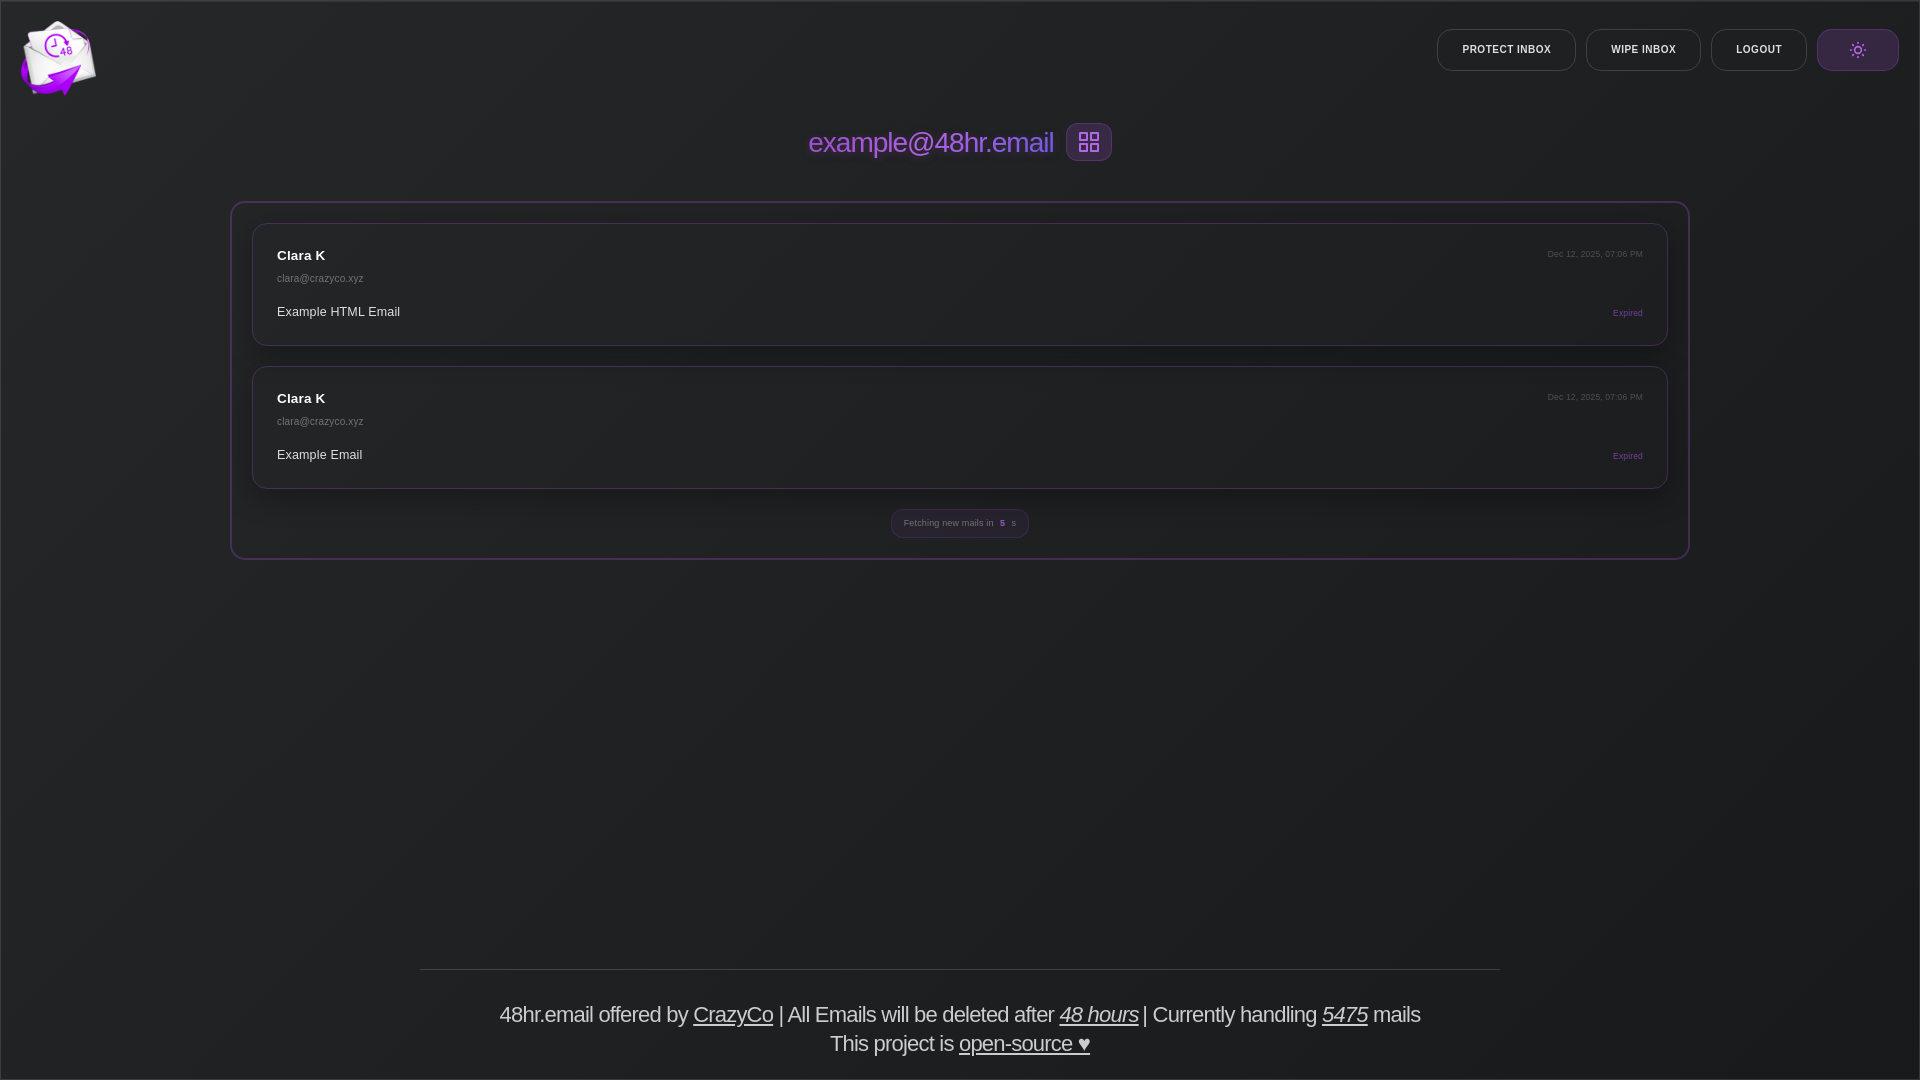
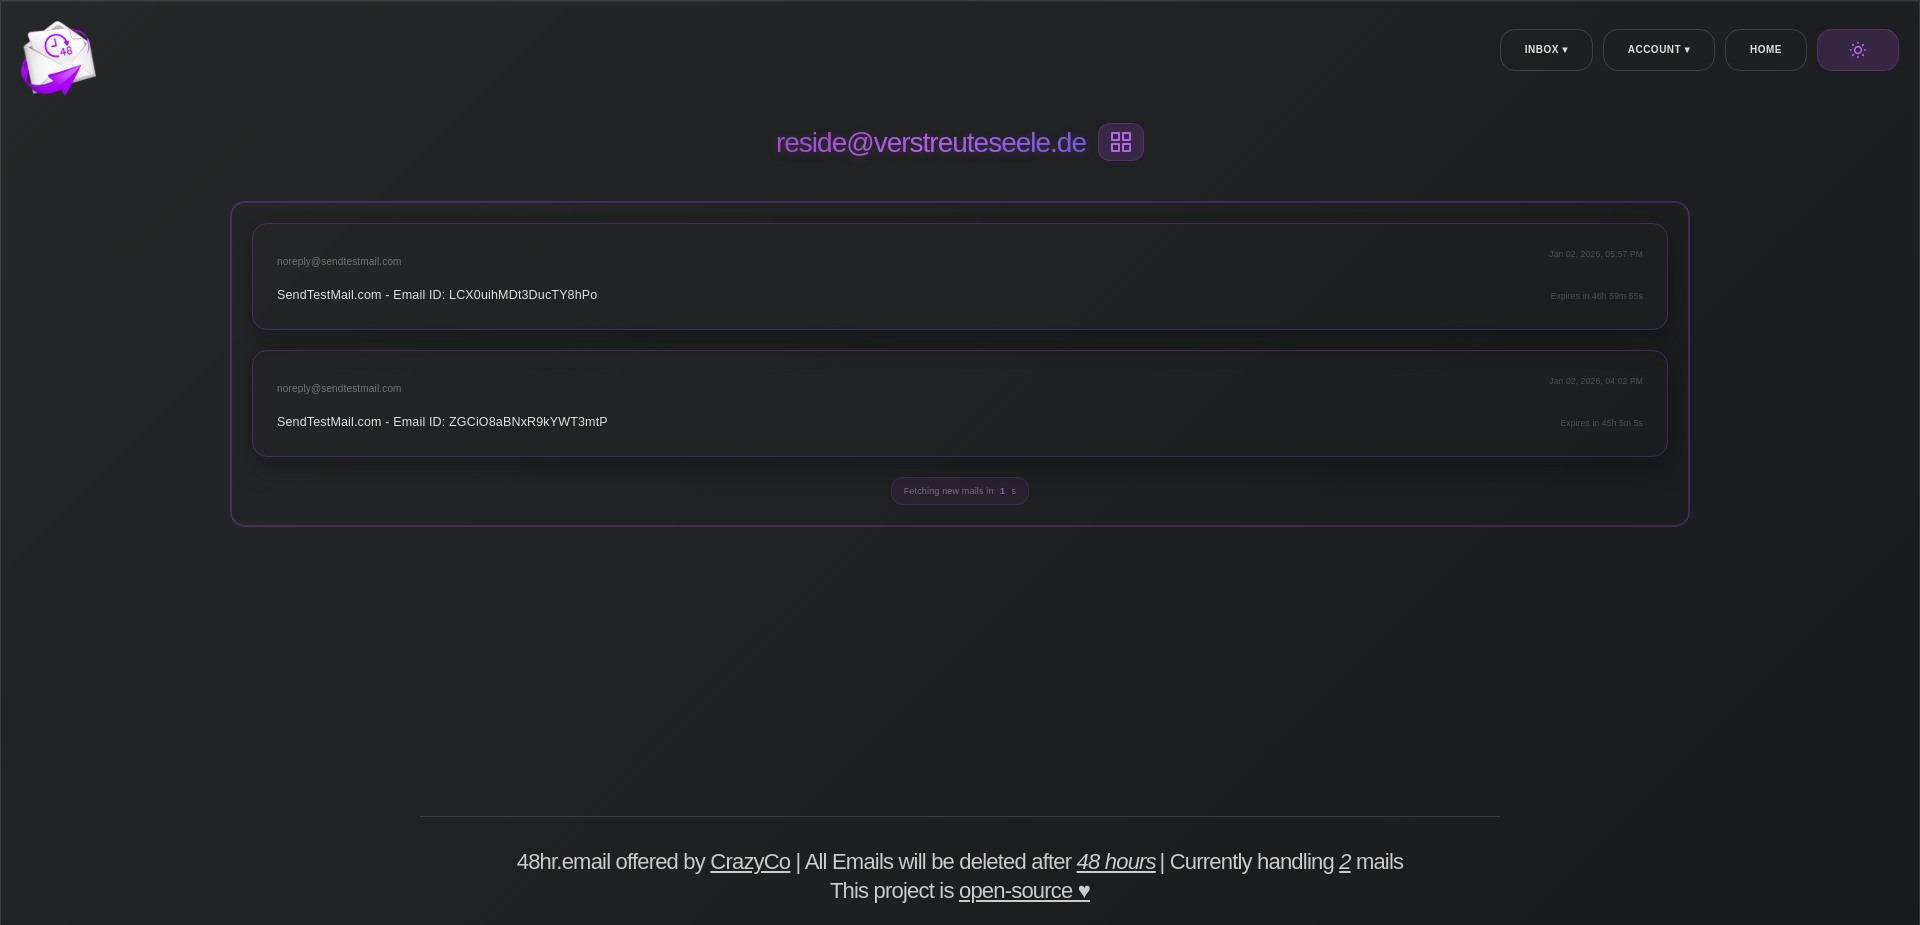
[Chore]: Final Cleanup

diff --git a/infrastructure/web/routes/inbox.js b/infrastructure/web/routes/inbox.js
@@ -658,8 +658,9 @@ router.get('/verify', async(req, res, next) => {
 
         debug(`Email ${destinationEmail} verified successfully, cookie set for 24 hours`)
 
-        // Redirect to success page
-        return res.redirect(`/inbox/verify-success?email=${encodeURIComponent(destinationEmail)}`)
+        // Show success on account page
+        req.session.accountSuccess = `Successfully verified ${destinationEmail}!`
+        return res.redirect('/account')
     } catch (error) {
         debug(`Error during verification: ${error.message}`)
         console.error('Error during email verification', error)
@@ -667,29 +668,4 @@ router.get('/verify', async(req, res, next) => {
         res.redirect('/')
     }
 })
-
-// GET route for verification success page
-router.get('/verify-success', async(req, res) => {
-    const { email } = req.query
-
-    if (!email) {
-        return res.redirect('/')
-    }
-
-    const config = req.app.get('config')
-    const mailProcessingService = req.app.get('mailProcessingService')
-    const count = await mailProcessingService.getCount()
-    const largestUid = await req.app.locals.imapService.getLargestUid()
-    const totalcount = helper.countElementBuilder(count, largestUid)
-
-    res.render('verify-success', {
-        title: `Email Verified | ${config.http.branding[0]}`,
-        email: email,
-        branding: config.http.branding,
-        purgeTime: purgeTime,
-        totalcount: totalcount
-    })
-})
-
-
 module.exports = router

diff --git a/infrastructure/web/routes/auth.js b/infrastructure/web/routes/auth.js
@@ -84,7 +84,7 @@ router.get('/auth', redirectIfAuthenticated, (req, res) => {
     delete req.session.errorMessage
     delete req.session.successMessage
 
-    res.render('login-auth', {
+    res.render('auth', {
         title: `Login or Register | ${config.http.branding[0]}`,
         branding: config.http.branding,
         errorMessage,

diff --git a/README.md b/README.md
@@ -33,7 +33,7 @@ All data is being removed 48hrs after they have reached the mail server.
 - Delete your emails ahead of time by pressing the delete button
 - View the raw email, showing all the headers etc.
 - Download Attachments with one click
-- Password-protected inboxes
+- <u>Optional</u> User Account System with email forwarding and inbox locking
 - and more...
 
 <br>
@@ -42,13 +42,14 @@ All data is being removed 48hrs after they have reached the mail server.
 
 ## Screenshots
 
-| Inbox | Email using HTML and CSS |
+| Homepage | Account Panel |
 |:---:|:---:|
-| <img src=".github/assets/inbox.png" width="500px" height="300px" style="object-fit: cover;"> | <img src=".github/assets/html.png" width="500px" height="300px" style="object-fit: cover;"> |
+| <img src=".github/assets/home.png" width="500px" height="300px" style="object-fit: fit;"> | <img src=".github/assets/account.png" width="500px" height="300px" style="object-fit: fit;"> |
 
-| Email without CSS | Dropdown for cryptographic Keys and Signatures |
-|:---:|:---:|
-| <img src=".github/assets/raw.png" width="500px" height="300px" style="object-fit: cover;"> | <img src=".github/assets/keys.png" width="500px" height="300px" style="object-fit: cover;"> |
+| Inbox | Email using HTML and CSS | Attachments and Cryptographic Keys view |
+|:---:|:---:|:---:|
+| <img src=".github/assets/inbox.png" width="500px" height="300px" style="object-fit: fit;"> | <img src=".github/assets/html.png" width="500px" height="300px" style="object-fit: fit;"> | <img src=".github/assets/keys.png" width="500px" height="300px" style="object-fit: fit;"> |
+
 
 <br>
 
@@ -65,7 +66,7 @@ All data is being removed 48hrs after they have reached the mail server.
 ## How can I set this up myself?
 
 **Prerequisites:**
-- Mail server with IMAP (Optionally also SMTP for email forwarding feature)
+- Mail server with IMAP (Optionally also SMTP for registration and protected features)
 - One or multiple domains dedicated to this
 - git & nodejs
 
